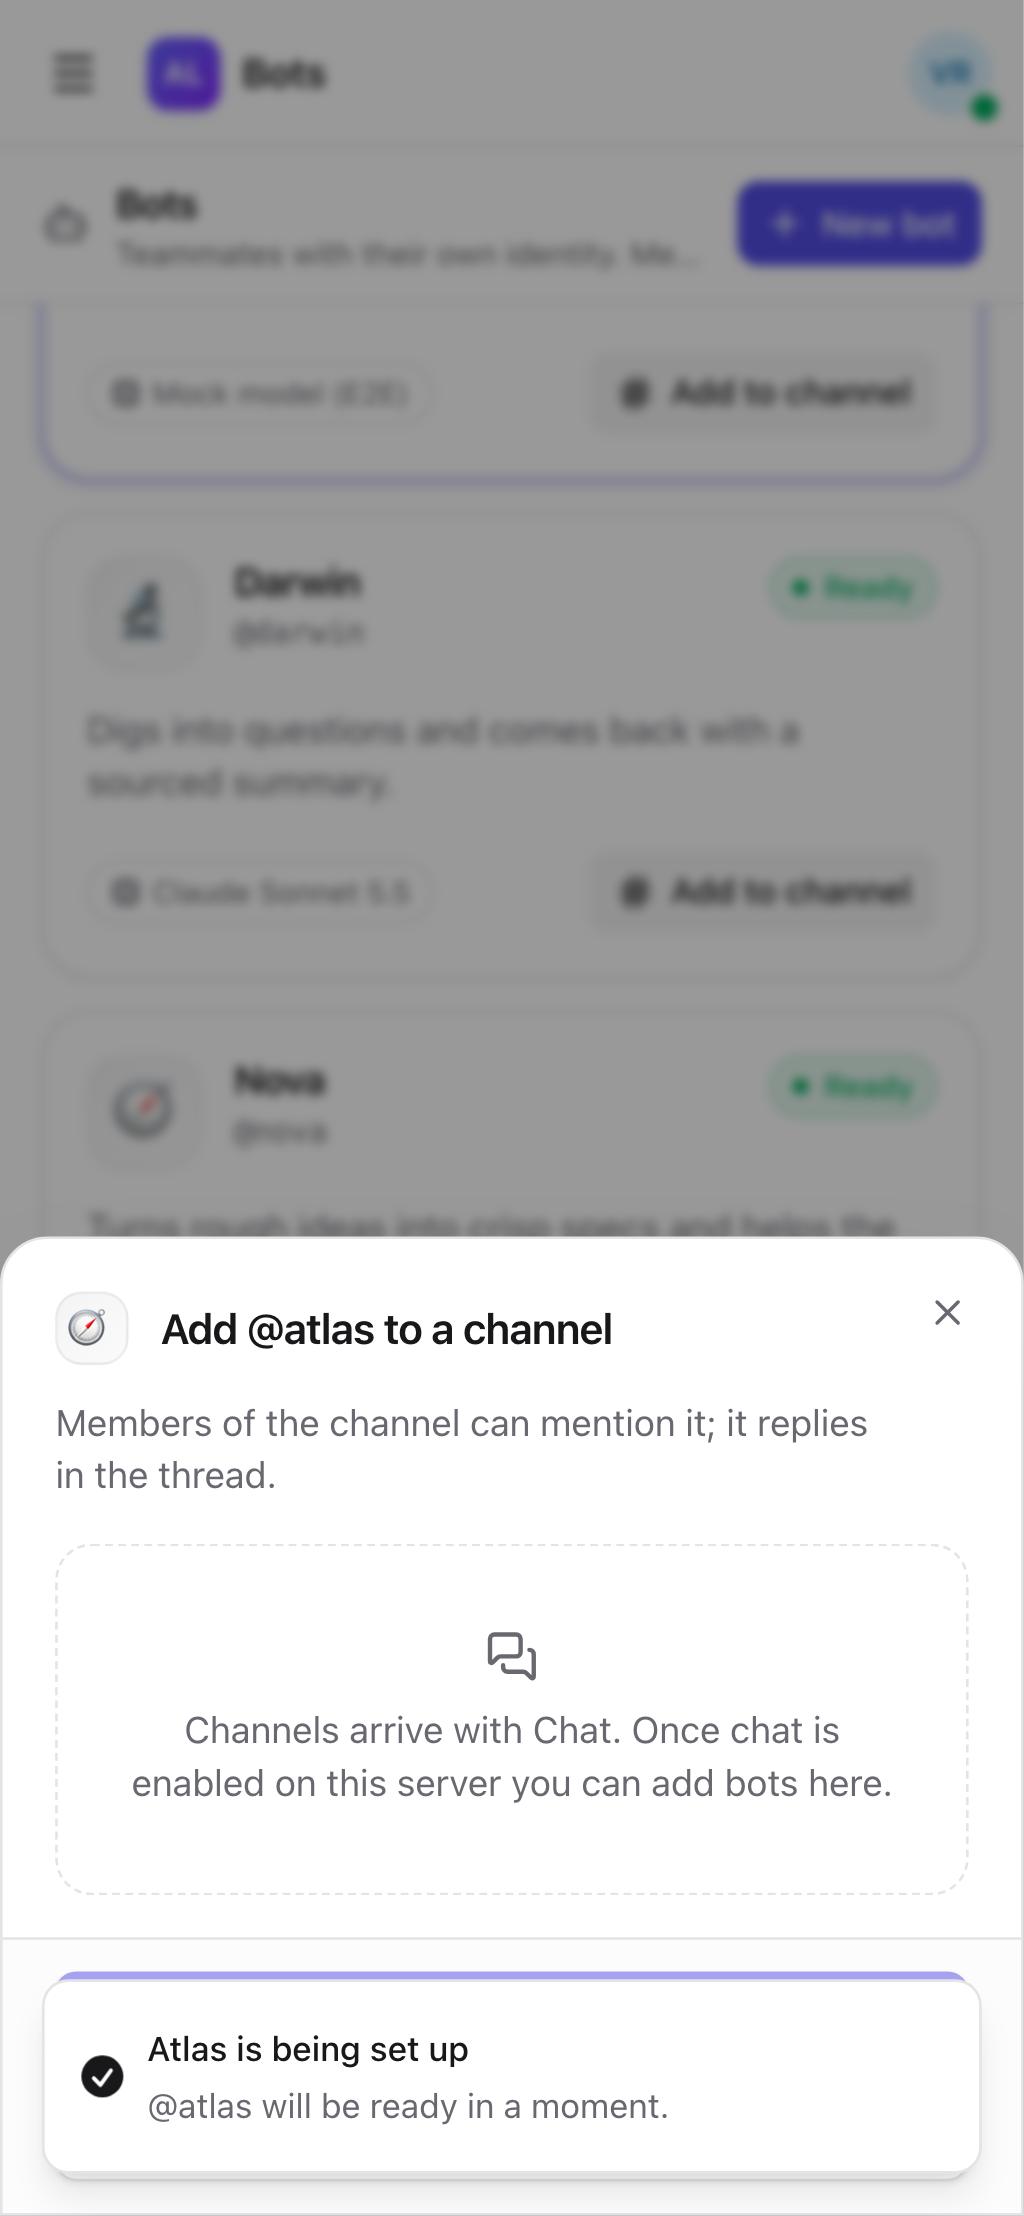
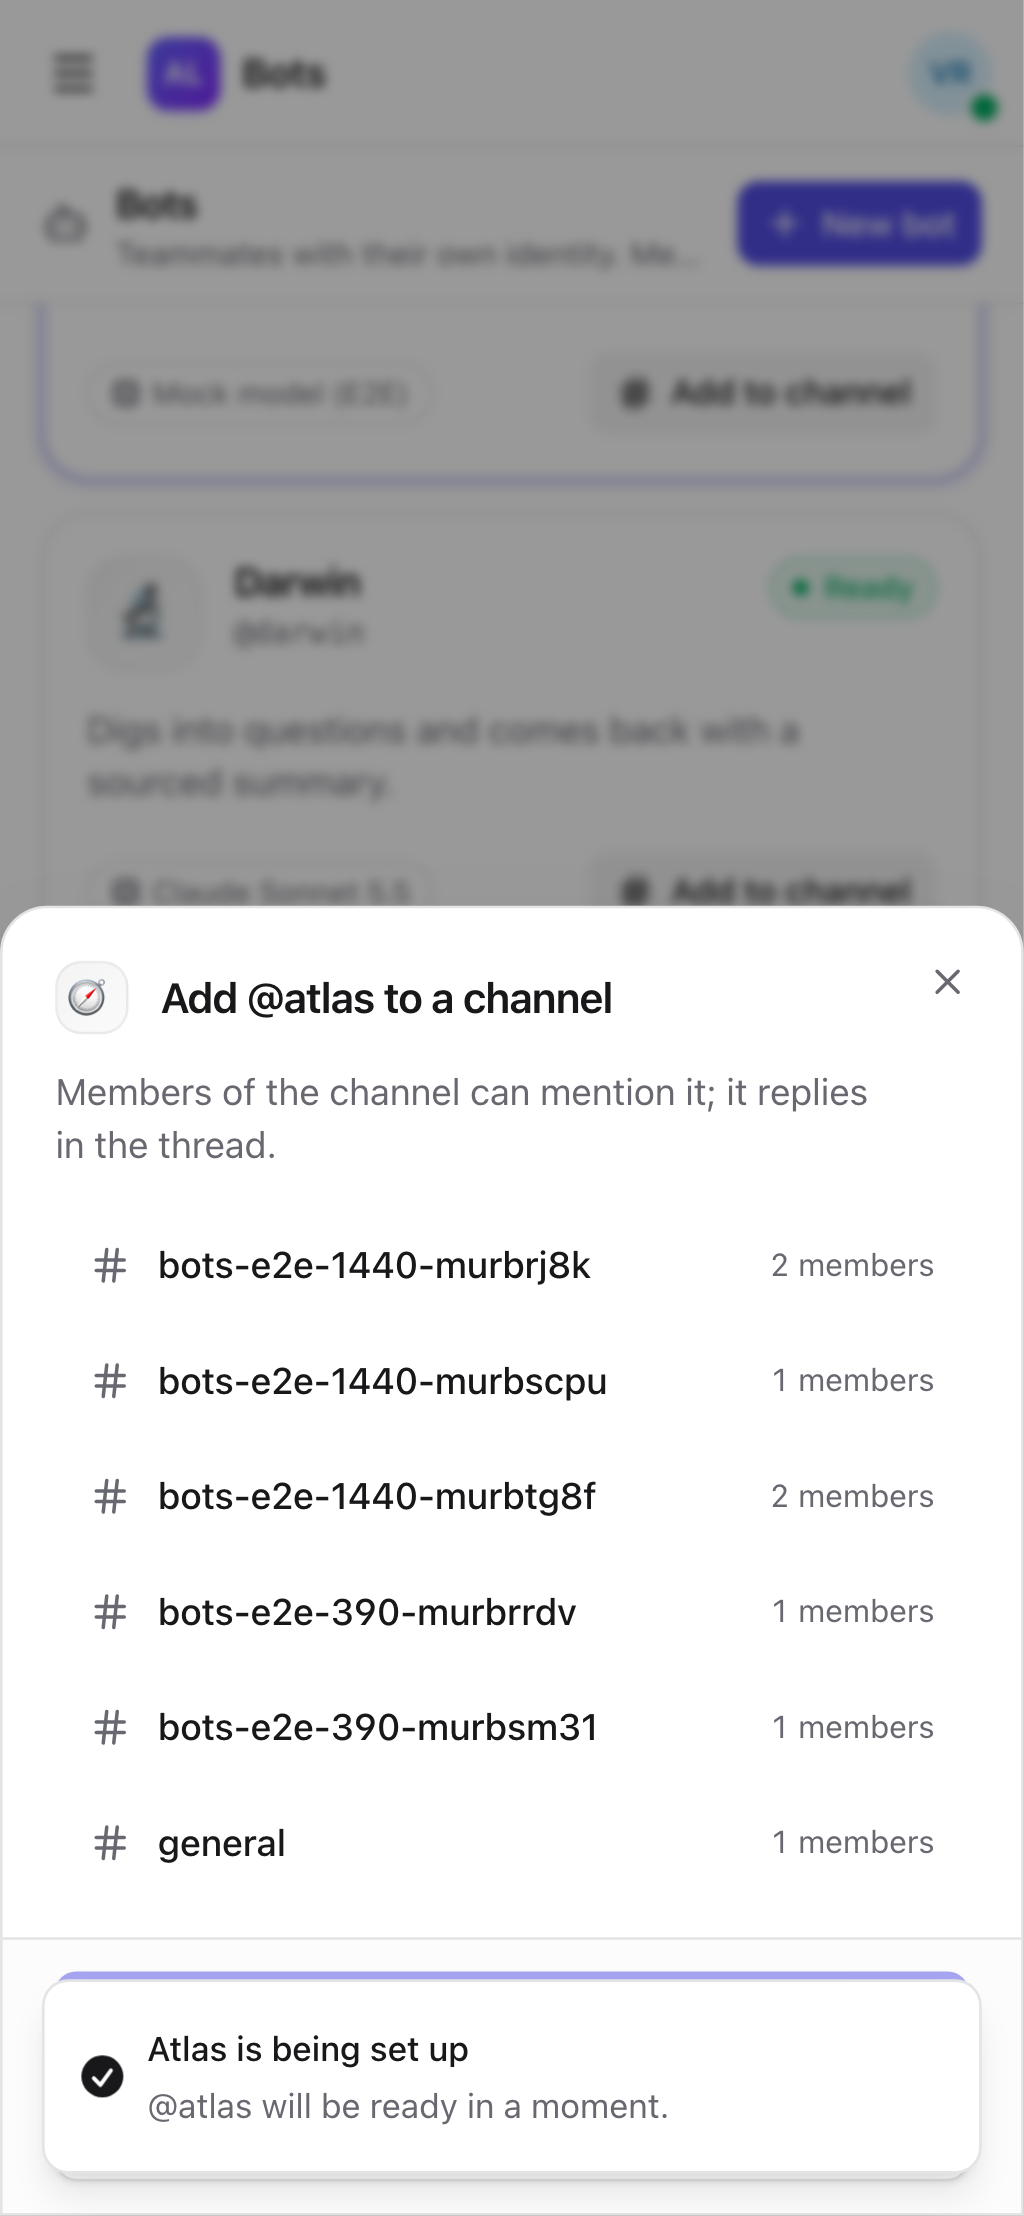
test(e2e): real chat mention → fake cell → threaded bot reply; re-runnable bots spec

diff --git a/e2e/tests/bots.spec.ts b/e2e/tests/bots.spec.ts
@@ -58,6 +58,14 @@ test("models → one-click bot → ready via the cell → add to channel", async
     await shot(page, `bots-models-${tag}`);
 
     // ---- One-click bot from a preset, on the never-metered mock model
+    const name = tag === "390" ? "Atlas" : "Nova";
+    // Re-runnable: remove bots left by a previous run of this spec.
+    const existing = (await (await page.request.get(`${API_URL}/api/v1/agents`)).json()) as {
+      agents: Array<{ id: string; name: string }>;
+    };
+    for (const a of existing.agents.filter((x) => x.name === name)) {
+      await page.request.delete(`${API_URL}/api/v1/agents/${a.id}`);
+    }
     await page.goto("/bots");
     await expect(page.getByRole("heading", { name: "Bots", exact: true })).toBeVisible();
     await page.getByTestId("new-bot").click();
@@ -65,7 +73,6 @@ test("models → one-click bot → ready via the cell → add to channel", async
     await expect(sheet.getByTestId("bot-presets")).toBeVisible();
     await shot(page, `bots-new-presets-${tag}`);
     await sheet.getByTestId("preset-product-manager").click();
-    const name = tag === "390" ? "Atlas" : "Nova";
     await sheet.getByTestId("bot-name").fill(name);
     await expect(sheet.getByTestId("bot-username")).toHaveValue(name.toLowerCase());
     await sheet.getByTestId("bot-model").click();
@@ -150,6 +157,13 @@ test("models → one-click bot → ready via the cell → add to channel", async
       expect(posted.ok()).toBe(true);
       await plugin.waitUntil(() => plugin.replies.length > 0, 15_000);
       expect(plugin.replies[0]!.mention.message.author.displayName).toBe(ADMIN.name);
+
+      // The reply is in the thread, attributed to the bot, with the structured identity it received.
+      await page.goto(`/chat/${channel.id}`);
+      await page.getByTestId("thread-summary").first().click();
+      const thread = page.getByTestId("thread-panel");
+      await expect(thread.getByText(`Asked by ${ADMIN.name}`)).toBeVisible();
+      await shot(page, `bots-reply-thread-${tag}`);
     }
   } finally {
     await plugin.stop();
